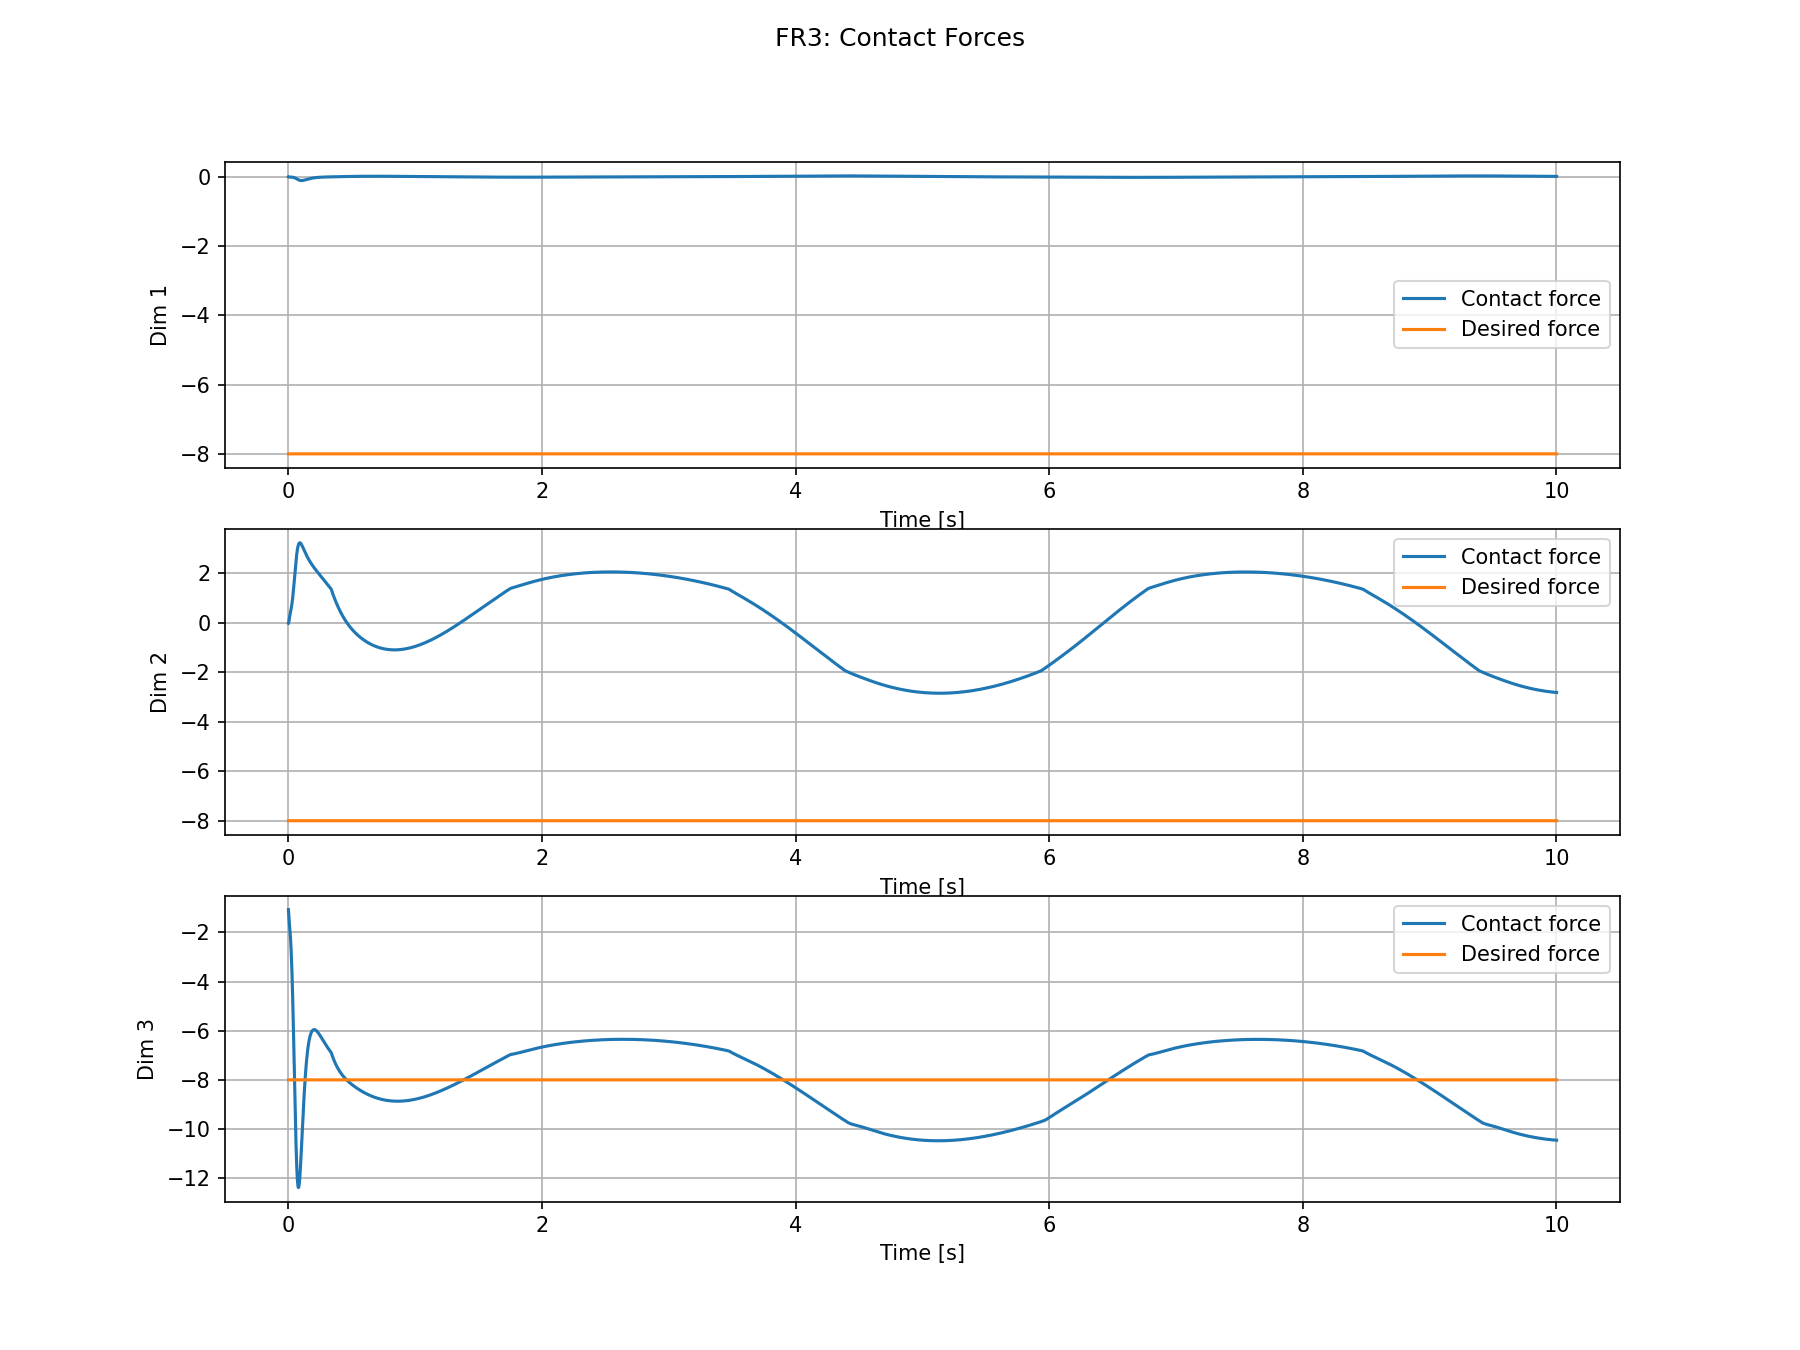
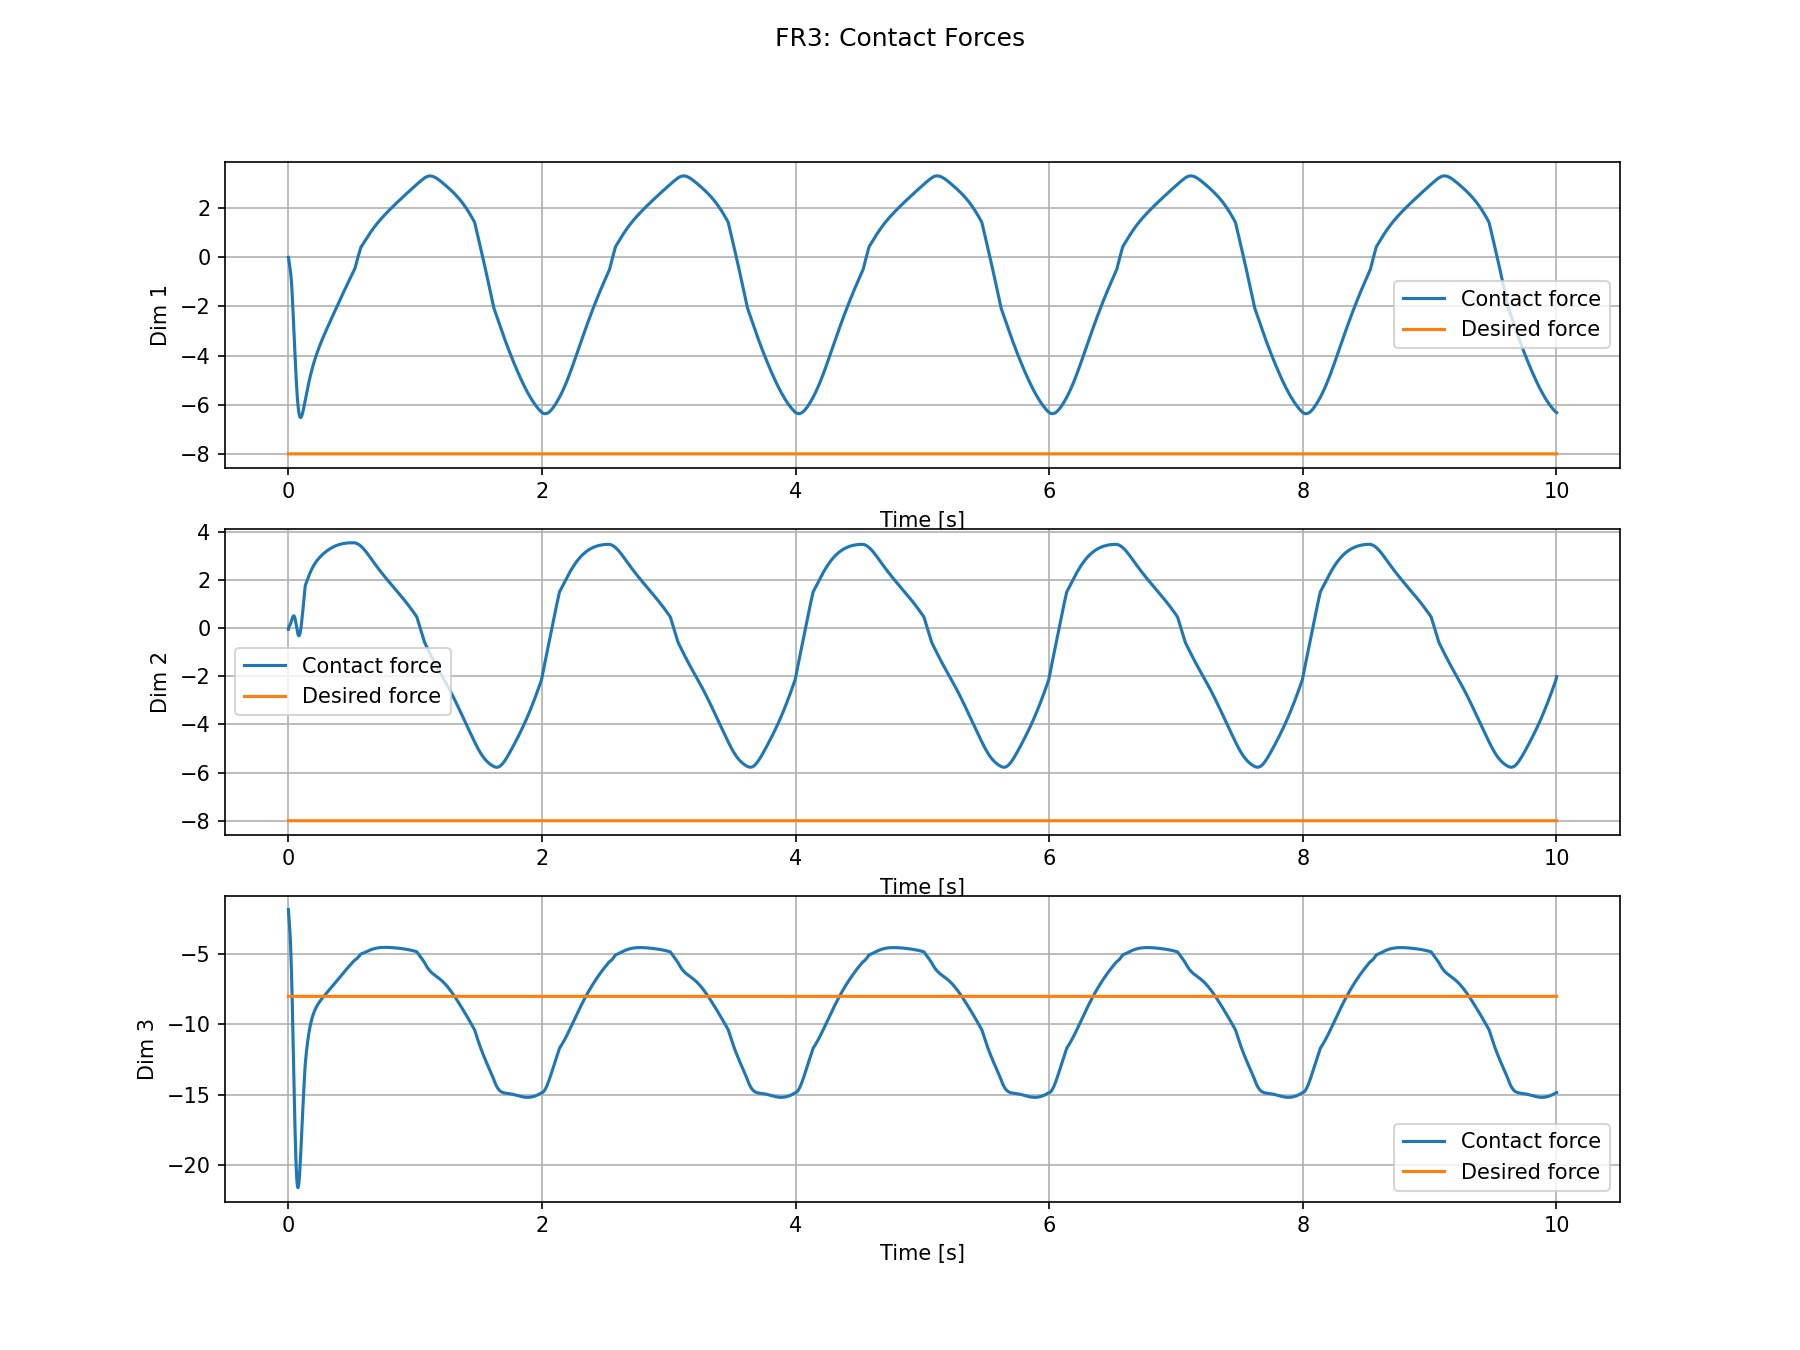
circle drawing has more bigger contact force compensation

diff --git a/src/hybrid_controller.py b/src/hybrid_controller.py
@@ -199,7 +199,7 @@ class HybridControllerConfig:
             damping_ratio = 1.0
             self.Kd_null = damping_ratio * 2 * np.sqrt(self.Kp_null)
         if self.F_desired_contact is None:
-            self.F_desired_contact = np.array([-15.0])
+            self.F_desired_contact = np.array([-8.0])
 
 
 class HybridController:
@@ -368,44 +368,36 @@ class HybridController:
         #     self.end_pos, 
         #     5.0) 
 
-        # if elapsed < self.common_config.circle_duration:
-        #     self.target_pos, self.x_dot_desired, self.x_ddot_desired = \
-        #         generate_circle_trajectory(
-        #             elapsed,
-        #             self.common_config.circle_center,
-        #             self.common_config.circle_radius,
-        #             self.common_config.angular_speed,
-        #             self.R_slope,
-        #             self.common_config.size_z
-        #         )
-        # else:
-        #     # Stop after duration
-        #     self.x_dot_desired[:] = 0.0
-        #     self.x_ddot_desired[:] = 0.0
-        #     self.is_drawing = False
-
         if elapsed < self.common_config.circle_duration:
-            self.target_pos = self.common_config.circle_center
-            self.x_dot_desired[:] = 0.0
-            self.x_ddot_desired[:] = 0.0
-
-            # self.target_pos, self.x_dot_desired, self.x_ddot_desired = \
-            #     generate_circle_trajectory(
-            #         elapsed,
-            #         self.common_config.circle_center,
-            #         self.common_config.circle_radius,
-            #         self.common_config.angular_speed,
-            #         self.R_slope,
-            #         self.common_config.size_z
-            #     )
+            self.target_pos, self.x_dot_desired, self.x_ddot_desired = \
+                generate_circle_trajectory(
+                    elapsed,
+                    self.common_config.circle_center,
+                    self.common_config.circle_radius,
+                    self.common_config.angular_speed,
+                    self.R_slope,
+                    self.common_config.size_z
+                )
         else:
             # Stop after duration
             self.x_dot_desired[:] = 0.0
             self.x_ddot_desired[:] = 0.0
             self.is_drawing = False
 
+        ### ---- fix point ---- ###
+        # if elapsed < self.common_config.circle_duration:
+        #     self.target_pos = self.common_config.circle_center
+        #     self.x_dot_desired[:] = 0.0
+        #     self.x_ddot_desired[:] = 0.0
+
+        # else:
+        #     # Stop after duration
+        #     self.x_dot_desired[:] = 0.0
+        #     self.x_ddot_desired[:] = 0.0
+        #     self.is_drawing = False
+
         # amplitude = 0.04  # 4cm amplitude → 8cm total range (±4cm)
-        # frequency = 0.2
+        # frequency = 2 # 0.2
 
         # if elapsed < self.common_config.circle_duration:
         #     self.target_pos, self.x_dot_desired, self.x_ddot_desired = generate_sinusoidal_trajectory(

diff --git a/src/cartesian_space_pd_controller.py b/src/cartesian_space_pd_controller.py
@@ -166,7 +166,7 @@ class CartesianSpacePDController:
         current_mat = O_T_EE[:3, :3]
 
 
-        tmp_target_pos = generate_line_trajectory_delta(self.time_elapsed, self.start_pos, self.target_pos, 5.0) 
+        tmp_target_pos = generate_line_trajectory_delta(self.time_elapsed, self.start_pos, self.target_pos, 2.0) 
         twist = compute_ee_pose_error(
             tmp_target_pos,
             current_pos,

diff --git a/src/robot_configs.py b/src/robot_configs.py
@@ -23,7 +23,7 @@ class RobotConfig:
 # FR3 Robot Configuration
 FR3_CONFIG = RobotConfig(
     name="fr3",
-    pinocchio_xml_path="franka_fr3/fr3.xml",
+    pinocchio_xml_path="franka_fr3/fr3_no_joint_friction.xml",
     mujoco_scene_xml_path="franka_fr3/scene.xml",
     joint_names=[
         'fr3_joint1', 'fr3_joint2', 'fr3_joint3', 'fr3_joint4', 

diff --git a/src/controller_config.py b/src/controller_config.py
@@ -25,7 +25,7 @@ class ControllerConfig:
     circle_center: np.ndarray = None
     circle_radius: float = 0.05
     circle_duration: float = 10.0
-    angular_speed: float = np.pi/4
+    angular_speed: float = np.pi
 
     # Contact detection thresholds
     position_tolerance: float = 0.01  # 1cm tolerance for reaching target
